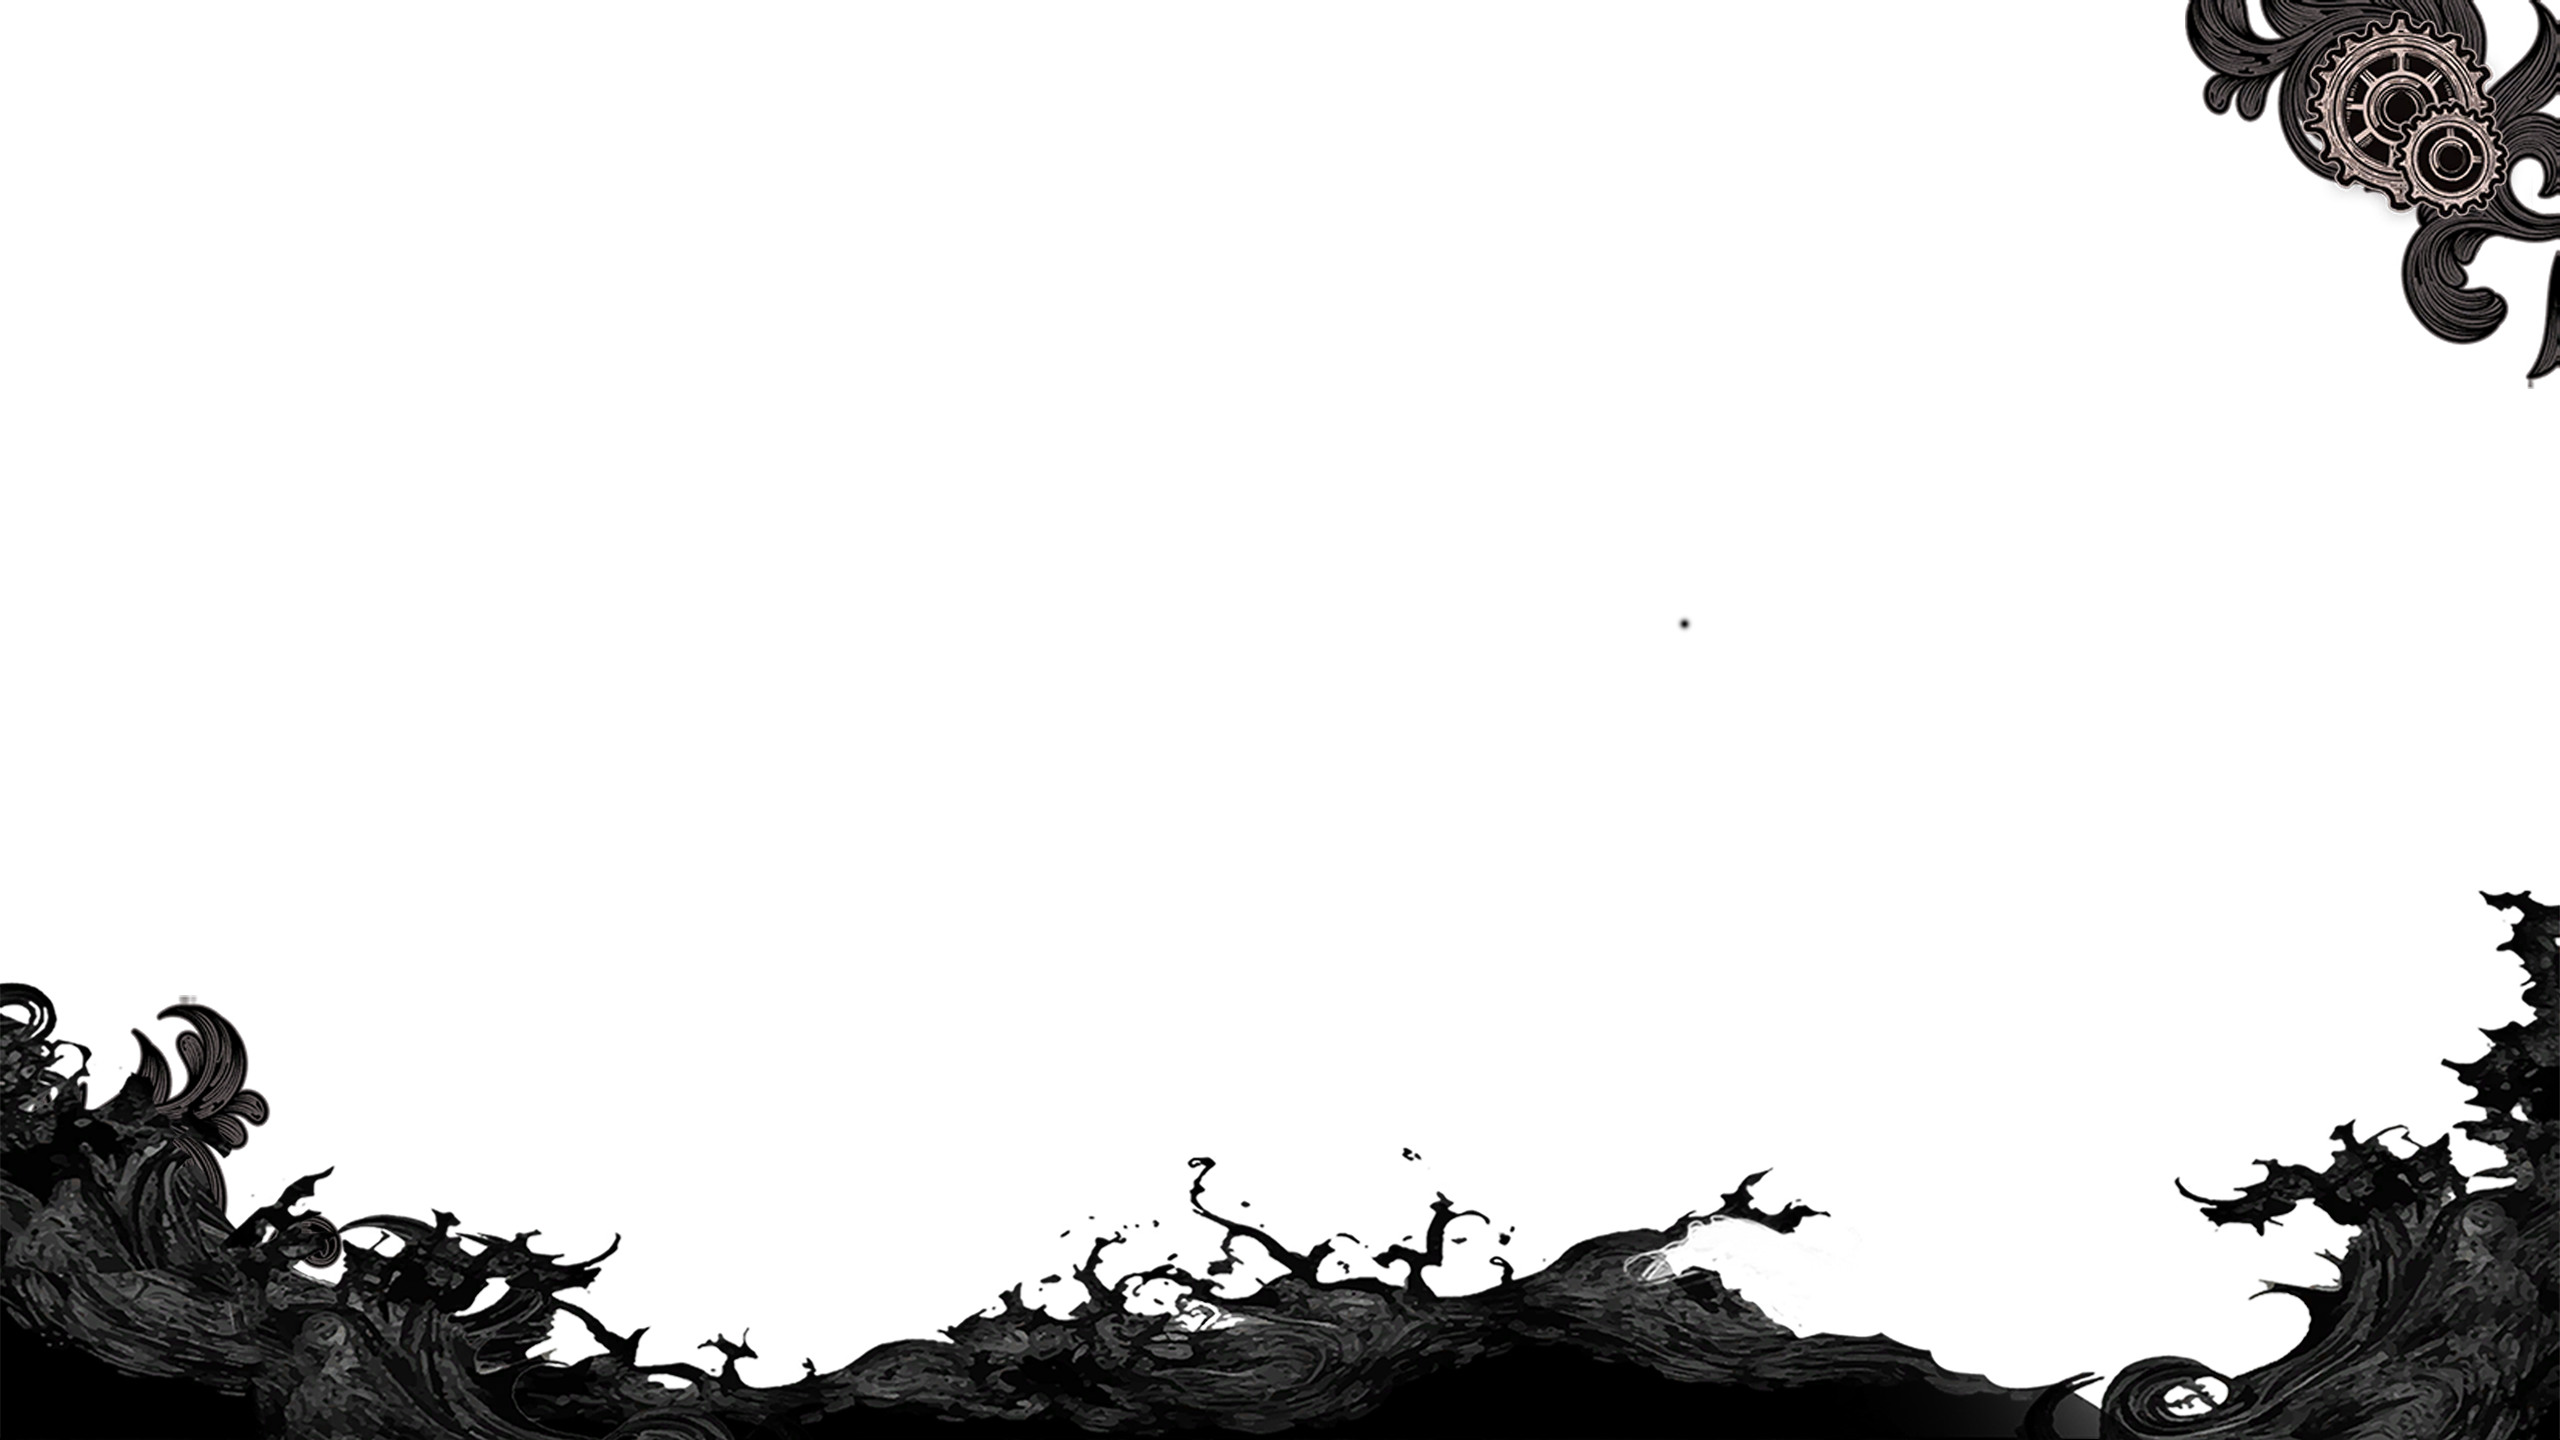
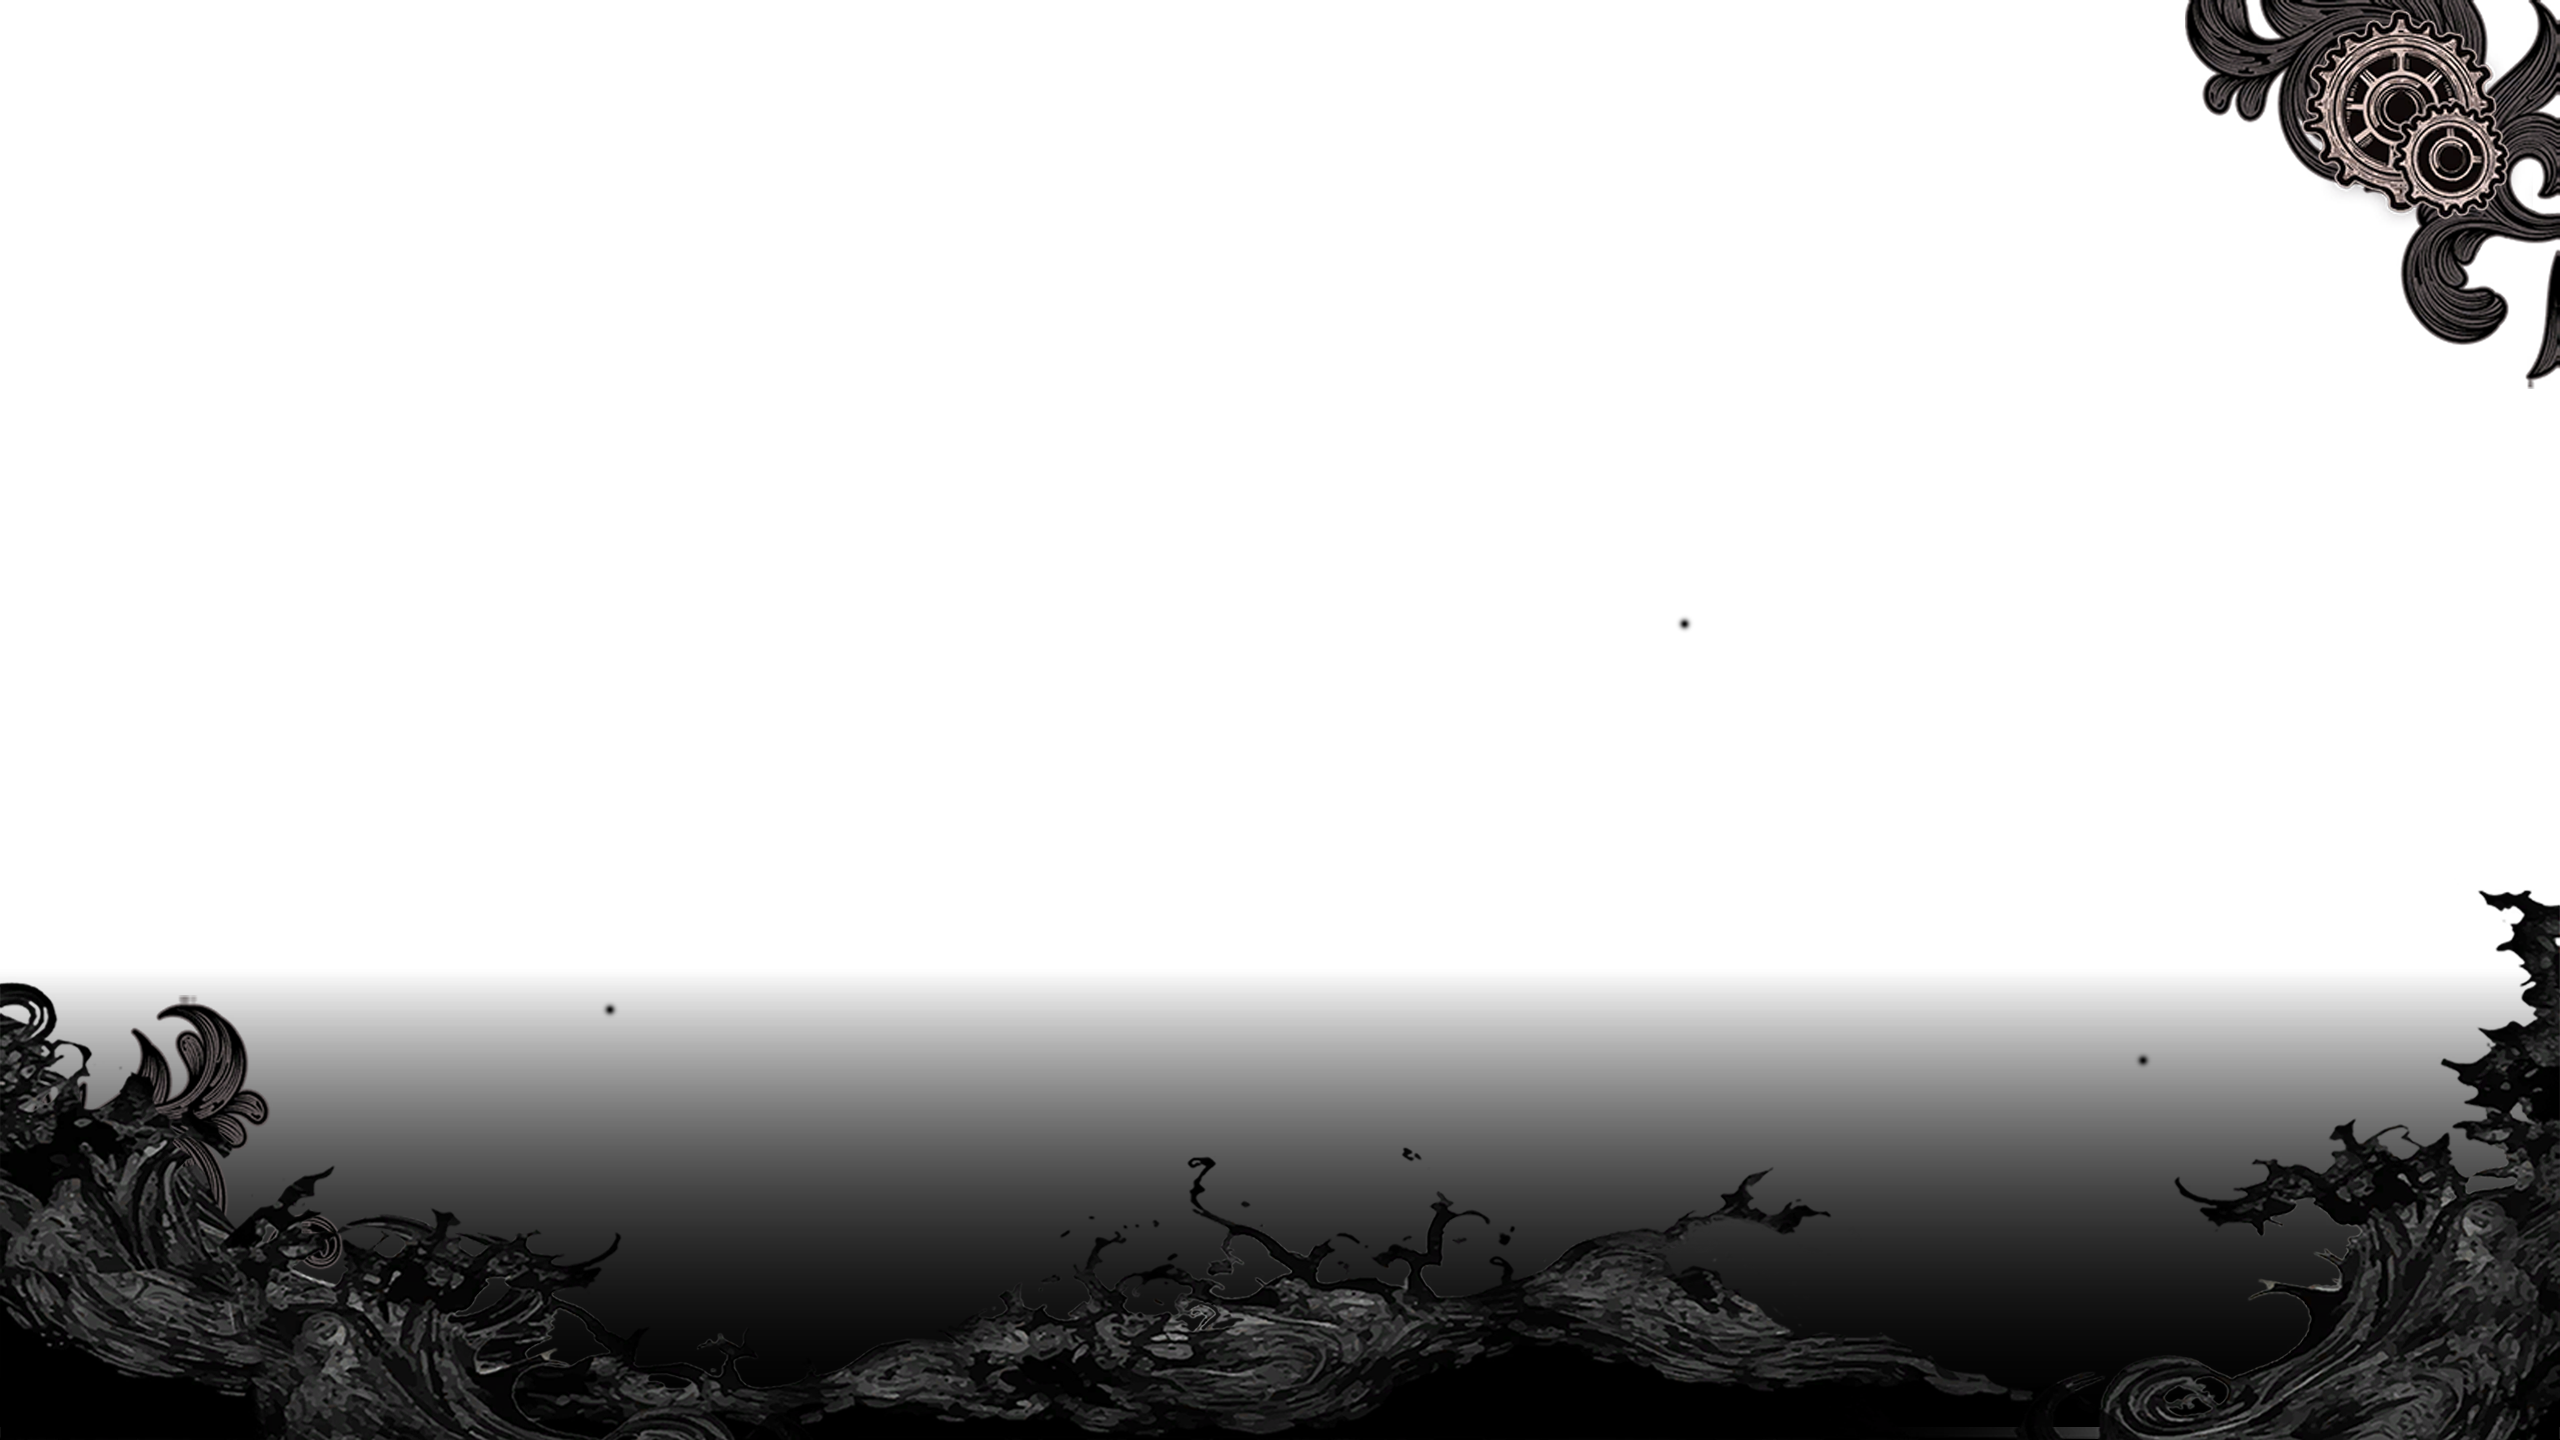
å®namebox修复

Changed region(s): [[0.0, 0.6875, 1.0, 1.0]]

diff --git a/packages/webgal/src/Stage/TextBox/IMSSTextbox.tsx b/packages/webgal/src/Stage/TextBox/IMSSTextbox.tsx
@@ -6,6 +6,7 @@ import useApplyStyle from '@/hooks/useApplyStyle';
 import { css } from '@emotion/css';
 import { textSize } from '@/store/userDataInterface';
 import textboxBg from '@/assets/dragonspring/textbox.png';
+import nameBoxBg from '@/assets/dragonspring/namebox.png';
 
 export default function IMSSTextbox(props: ITextboxProps) {
   const {
@@ -230,37 +231,37 @@ export default function IMSSTextbox(props: ITextboxProps) {
 
             {isHasName && (
               <>
-                {/* 这层仅用于“占位测量”，背景已禁用 */}
+                {/* namebox 背景图，直接铺满全屏 */}
                 <div
-                  className={
-                    applyStyle('TextBox_showName', styles.TextBox_showName) +
-                    ' ' +
-                    applyStyle('TextBox_ShowName_Background', styles.TextBox_ShowName_Background)
-                  }
+                  aria-hidden
                   style={{
-                    opacity: `${textboxOpacity / 100}`,
-                    fontSize: '200%',
-                    background: 'transparent',
-                    border: '0',
-                    boxShadow: 'none',
+                    position: 'fixed',
+                    inset: 0,
+                    zIndex: 3, // 要在 textbox 背景之上、文字之下，根据需要调
+                    pointerEvents: 'none',
+                    backgroundImage: `url(${nameBoxBg})`,
+                    backgroundRepeat: 'no-repeat',
+                    backgroundPosition: 'center',
+                    backgroundSize: 'cover',
+                    opacity: textboxOpacity / 100,
                   }}
-                >
-                  <span style={{ opacity: 0 }}>{nameElementList}</span>
-                </div>
+                />
 
-                {/* 实际显示名字 */}
+                {/* 显示名字的文字层 */}
                 <div
                   className={applyStyle('TextBox_showName', styles.TextBox_showName)}
                   style={{
                     fontSize: '200%',
                     background: 'transparent',
                     border: 0,
+                    zIndex: 4, // 在背景图上
                   }}
                 >
                   {nameElementList}
                 </div>
               </>
             )}
+
 
             <div
               className={`${lhCss} ${applyStyle('text', styles.text)}`}

diff --git a/packages/webgal/src/Stage/TextBox/textbox.module.scss b/packages/webgal/src/Stage/TextBox/textbox.module.scss
@@ -233,4 +233,9 @@ $height: 330px;
 .text {
   //line-height: 2em;
   overflow: hidden;
+  position: absolute;
+  text-align: left;
+  left: 0;
+  top: 0;
+  bottom: 50px;
 }
